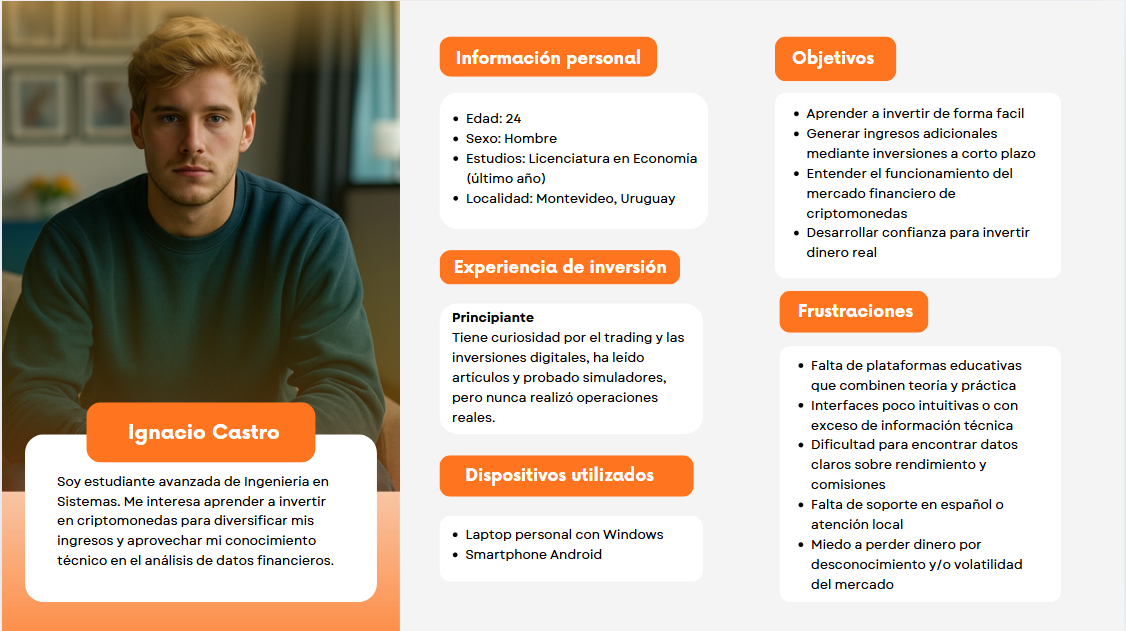
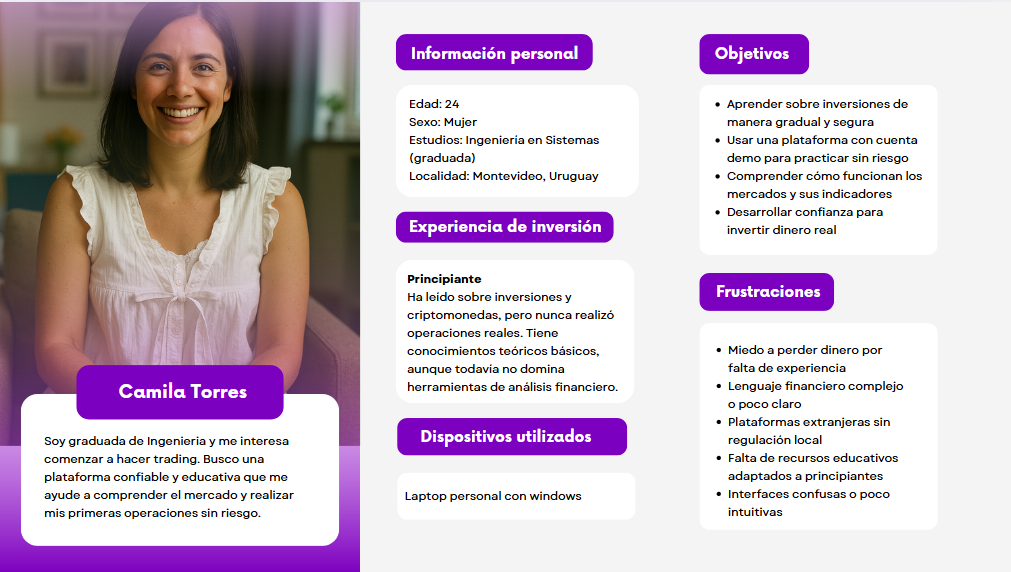
docs(informe1): Correccion de User Persona

diff --git a/docs/informe_1.md b/docs/informe_1.md
@@ -232,7 +232,8 @@ Para tener una mejor comprensión y validación del proyecto, realizamos varios 
 Estos perfiles nos permitieron entender mejor sus necesidades, motivaciones y comportamientos, facilitando el diseño de una solución más adecuada.
 
 
-<img src="image-4.png" alt="alt text" width="450"/><img src="image-3.png" alt="alt text" width="450"/><img src="image-5.png" alt="alt text" width="450"/>
+<img src="image-4.png" alt="alt text" width="450"/><img src="image-5.png" alt="alt text" width="450"/><img src="image-6.png" alt="alt text" width="450"/>
+
 
 # User Stories & Use Cases
 
@@ -423,9 +424,6 @@ En resumen, este análisis no solo nos dio claridad sobre qué construir, sino q
   * Qué funcionó bien y qué no.
   * Lecciones aprendidas hasta ahora.
 * Mantener un tono crítico y constructivo, no sólo descriptivo
-
-
-# Aca empieza
 
 
 
